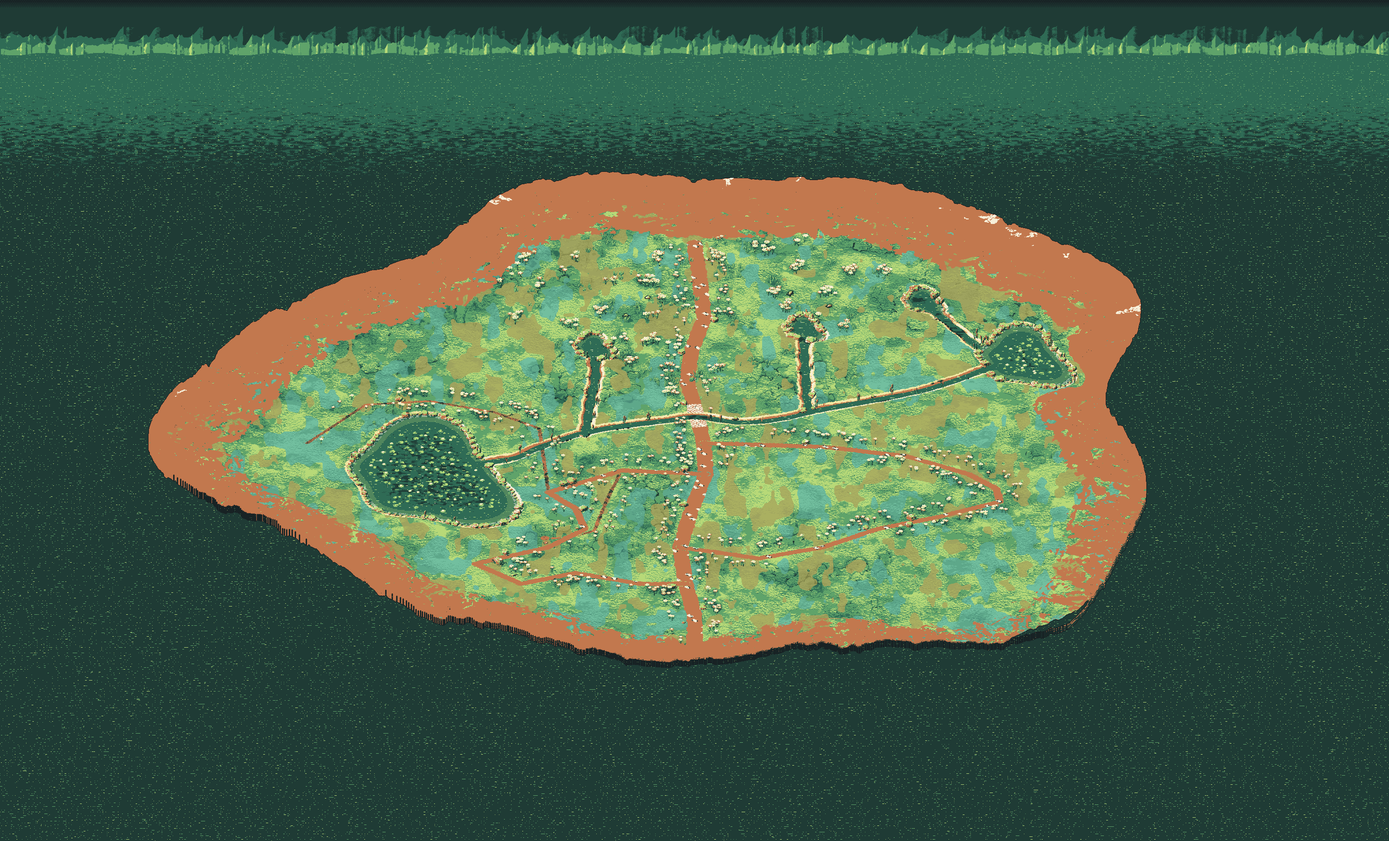
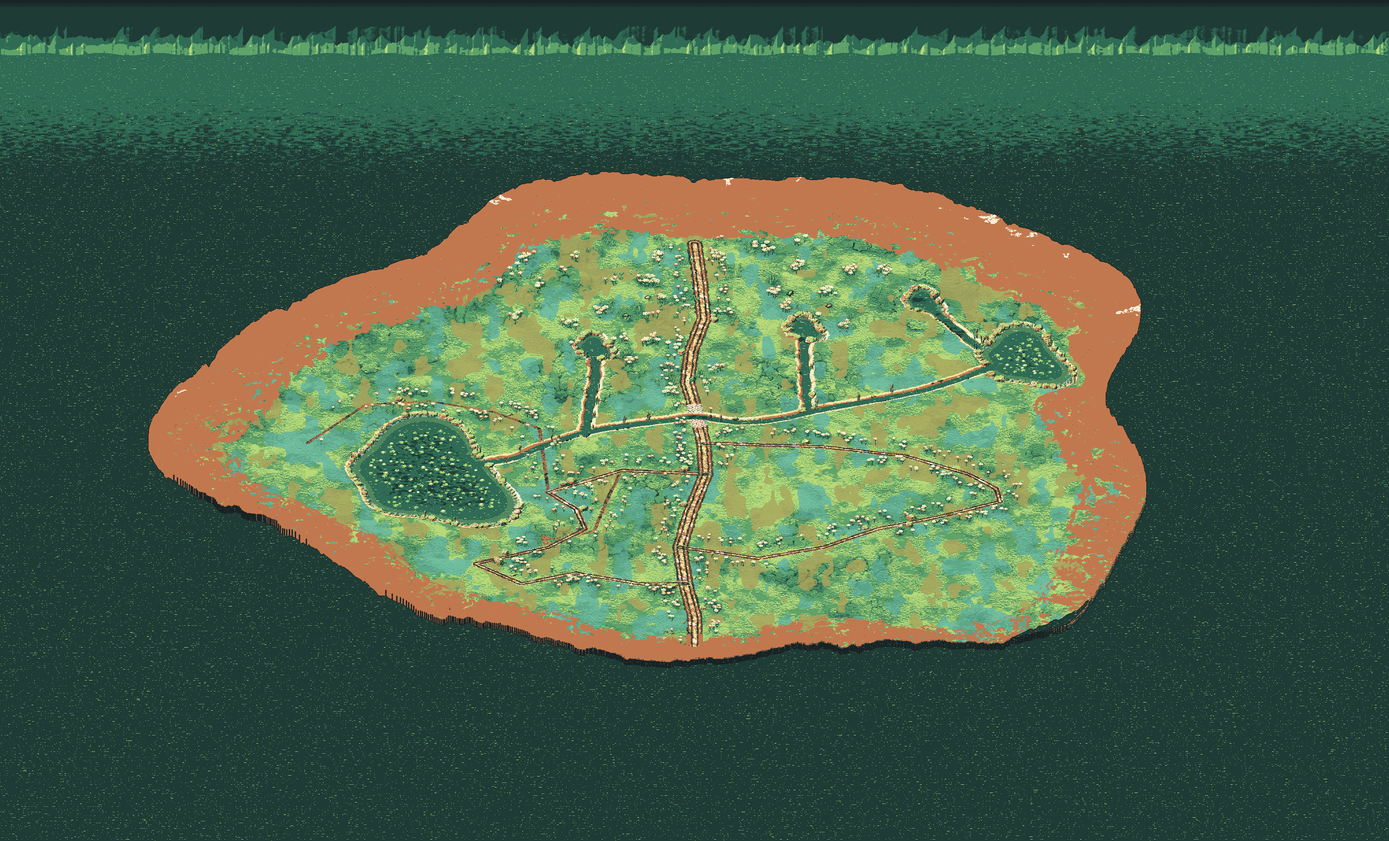
Larkmoor paths: stone slabs, grass spill and path tones (#602)
* Larkmoor paths: stone slabs, grass spill, mid-path stones, light tones

- Road slabs are larger (16 by 10 FU) with dirt joints.
- Grass spills softly over the road and lane edges (finger overlap, dithered).
- Small flat stones scattered in the trodden centre, none along roadsides.
- Trodden ground gets a pale worn centre and dusty mottles through its light,
  since the engine picks path colour from its ramp by light.
- Regenerated ground, ground_fg, ground_n and gardens. Tests: 12638 checks, 0 failed.

Claude-Session: https://claude.ai/code/session_01Pmx9dT3qdV6buBzqN7myn4

* Add changelog fragment for Larkmoor path pass 2

Claude-Session: https://claude.ai/code/session_01Pmx9dT3qdV6buBzqN7myn4

* Larkmoor path rims and ruts as code 71, baked dark on flat ground

- Path rims and wheel ruts use code 71 (darker earth ramp, RAMP32[71] in gen_meadow3d.py).
- On flat ground the engine keeps the bake colour, so the rims are also baked as palette 1 with a dithered edge.
- Pale worn patches and dusty mottles on the trodden centre are baked as palette 5.
- Tests: 12641 checks, 0 failed. Noon frame shows the dark rims along both road edges.

Claude-Session: https://claude.ai/code/session_01Pmx9dT3qdV6buBzqN7myn4

---------

diff --git a/tools/art/gen_larkmoor.py b/tools/art/gen_larkmoor.py
@@ -1075,6 +1075,7 @@ dp = samp(dpath, FU, FV)
 tone = fbm2(FU / 14, FV / 14, 2, 11); n1 = vn2(FU / 5, FV / 5, 3); n2 = vn2(FU / 2.2, FV / 2.2, 8)
 # materials: 0 grass 1 rock 2 sand 3 wet 4 path 5 frost
 T_GRASS, T_ROCK, T_SAND, T_WET, T_PATH, T_FROST, T_EARTH, T_WATER, T_FOAM, T_TRAIL = 100, 101, 102, 103, 104, 105, 106, 107, 108, 109
+T_RUT = 71     # dirt path rims (the outer part of a road) and ruts: a darker earth ramp, so a path is not one flat colour
 T_STONE = 70   # Larkmoor flagstones: their own grey-stone code, so the engine relight does not brown them with the dirt (gen_meadow3d.py RAMP32)
 mat = np.full(len(FU), T_GRASS, np.int16)
 rockness = smooth(.42, .85, slope + np.clip(h - 10, 0, 50) / 50 + (n1 - .5) * .25)
@@ -1105,8 +1106,8 @@ for _t, _f in FEATHER.items():
     mat[_band & ~_keep & (mat == FEATHER_MAT[_t])] = T_GRASS
 # grass tufts reach into the trodden edge: a ragged band of grass fingers overlaps the dirt, so the verge is not a clean line
 for _t in ('lane', 'trail'):
-    _fing = (dtr[_t] > HALF[_t] * .80) & (dtr[_t] < HALF[_t] * edge_noise * 1.05)
-    mat[_fing & (mat == FEATHER_MAT[_t]) & (vn2(FU / 1.1, FV / 1.1, 93 if _t == 'lane' else 94) > .58)] = T_GRASS
+    _fing = (dtr[_t] > HALF[_t] * .72) & (dtr[_t] < HALF[_t] * edge_noise * 1.10)
+    mat[_fing & (mat == FEATHER_MAT[_t]) & (vn2(FU / 1.3, FV / 1.3, 93 if _t == 'lane' else 94) > .52)] = T_GRASS
 # the plaza at the lighthouse foot: a small widened disc of the same worn earth, where the grove trail ends
 mat[(np.hypot(FU - LH_UV[0], FV - LH_UV[1]) < FOOT_R) & (rockness < .85) & ~(on_path['road'] | on_path['lane'])] = T_TRAIL
 dn = np.minimum.reduce([dtr[t] / HALF[t] for t in HALF]) * 10.5
@@ -1133,6 +1134,14 @@ for _t in ('road', 'lane'):
     _rut |= (np.abs(np.abs(dtr[_t]) - HALF[_t] * .38 + _wob) < 1.4) & on_path[_t]
 lt -= .24 * (_rut & (mat == T_PATH))
 lt += .07 * (on_trod & (vn2(FU / 9, FV / 9, 99) > .72))
+# path tone (Nathan, 2026-11-25): the engine re-picks trodden ground from the path's 4-step ramp by light, so the tone lives
+# in the light. Most path light sits in the bottom step (the rust), so a pale worn centre and dusty mottles are lifted past
+# the step to the pale one, in patches, not as a flat wash.
+_centre = np.zeros(len(FU), bool)
+for _t in ('road', 'lane'):
+    _centre |= on_path[_t] & (dtr[_t] < HALF[_t] * .5)
+lt += .50 * (_centre & (mat == T_PATH) & (vn2(FU / 5.0, FV / 4.0, 73) > .52))
+lt += .48 * (on_trod & (vn2(FU / 2.5, FV / 2.0, 75) > .80))
 # value structure (V3, picked by Nathan): three value bands per grass patch, a lighter trodden path, and a darker floor
 # under canopies. The bands follow smooth patch noise, not texel noise. The canopy floor uses the shadow height field:
 # ground that stands under props (trees, bushes, rocks) gets a soft dark falloff of about 4 texels around them.
@@ -1164,19 +1173,30 @@ lt -= .30 * mortar                                           # a soft drop to th
 # stones stand out as cream tiles in a brown dirt road, instead of a pale sand road with dirt joints.
 lt -= .62 * (mat == T_PATH)     # road and lanes alike drop to the dirt (earth) step; sand alone sits well above it
 lt += .62 * (road_m & fl_zone & ~mortar)   # the flagstones near the windmill and bridges lift back to the lit sand stones
+mat[(mat == T_PATH) & (_rut | (on_path['road'] & (dtr['road'] > HALF['road'] * 0.75)))] = T_RUT   # rims and ruts
 mat[road_m & fl_zone & ~mortar] = T_STONE   # the stones are grey stone; the joints stay dirt (T_PATH)
 # road slabs (Nathan's reference): sparse flat grey stones about 6 by 4 texels on the dirt road, one per 11-texel cell in
 # some cells. The slab is stone code 70 and its joint ring stays dirt code 104 (T_PATH), so the engine relights the stone
 # grey and the joints brown. Cell offsets and picks are integer hashes, so the layout is the same every bake.
-_cs = 22   # FU samples run at about half the bake's texel scale, so the slab is 12 by 8 FU (about 6 by 4 bake texels)
+_cs = 32   # FU samples run at about half the bake's texel scale; the slab is 16 by 10 FU (about 8 by 5 bake texels), readable at 1x
 _cu = np.floor(FU / _cs).astype(np.int64); _cv = np.floor(FV / _cs).astype(np.int64)
-_sx = _cu * _cs + ((_cu * 31337 + _cv * 7919) % 12)
-_sy = _cv * _cs + ((_cu * 104729 + _cv * 1299709) % 12)
+_sx = _cu * _cs + ((_cu * 31337 + _cv * 7919) % 16)
+_sy = _cv * _cs + ((_cu * 104729 + _cv * 1299709) % 22)
 _pick = ((_cu * 92821 + _cv * 68917 + 17) % 1009) / 1009.0 < .55
 _uu = np.floor(FU).astype(np.int64); _vv = np.floor(FV).astype(np.int64)
-_slab = _pick & (_uu >= _sx) & (_uu < _sx + 12) & (_vv >= _sy) & (_vv < _sy + 8)
-_joint = _slab & ((_uu == _sx) | (_uu == _sx + 11) | (_vv == _sy) | (_vv == _sy + 7))
+_slab = _pick & (_uu >= _sx) & (_uu < _sx + 16) & (_vv >= _sy) & (_vv < _sy + 10)
+_joint = _slab & ((_uu == _sx) | (_uu == _sx + 15) | (_vv == _sy) | (_vv == _sy + 9))
 mat[_slab & ~_joint & (mat == T_PATH)] = T_STONE
+# small rocks scattered in the middle of the path (Nathan's correction: no rocks along the roadsides): 2 by 2 stone texels in
+# sparse cells, only on the trodden centre of the road and lanes
+_rc = 9
+_ru = np.floor(FU / _rc).astype(np.int64); _rv = np.floor(FV / _rc).astype(np.int64)
+_rx = _ru * _rc + ((_ru * 4241 + _rv * 2309) % 7)
+_ry = _rv * _rc + ((_ru * 6007 + _rv * 3571) % 7)
+_rpick = ((_ru * 5399 + _rv * 2741 + 3) % 97) / 97.0 < .35
+_rock = _rpick & (_uu >= _rx) & (_uu < _rx + 2) & (_vv >= _ry) & (_vv < _ry + 2)
+_mid = ((dtr['lane'] < HALF['lane'] * .5) | (dtr['road'] < HALF['road'] * .5)) & (mat == T_PATH)
+mat[_rock & _mid] = T_STONE
 # water points
 isw = wd > .04
 mat = np.where(isw, T_WATER, mat)
@@ -1224,6 +1244,7 @@ RAMP = {T_GRASS: [1, 2, 3, 3, 4], T_ROCK: [6, 6, 6, 6, 6], T_SAND: [6, 6, 5, 7],
         M_PETA: [3, 5, 5, 7], M_PETB: [2, 6, 6, 5], M_STEM: [1, 2, 3, 3], M_LILY: [1, 2, 3, 4], M_REED: [1, 2, 3, 3], M_CAT: [1, 6, 6, 5], M_BERRY: [1, 6, 6, 5],
         M_CAP: [1, 6, 6, 5], M_CSTEM: [6, 5, 7, 7], M_PAPER: [5, 7, 7, 7], M_GRASS: [2, 3, 3, 4], M_BARKT: [6, 5, 7, 7], M_BARKT2: [1, 6, 5, 7], M_INK: [0, 0, 1, 1], M_PAPER + 20: [5, 7, 7, 7], M_DARKF: DARKF_RAMP}
 RAMP.update({M_BOARD: [1, 6, 6, 5], M_BOARDT: [6, 5, 5, 7], M_RAIL: [0, 1, 1, 6]})   # wooden bridges
+RAMP[T_RUT] = [1, 6, 6, 6]   # dirt rims and ruts: darker earth in the bake; the engine relight uses RAMP32[71] (gen_meadow3d.py)
 RAMP[T_STONE] = [1, 7, 7, 7]   # grey stone (bake colours are anchors; the engine relight uses the grey ramp in gen_meadow3d RAMP32)
 # canopy shading (round 2 of the v3 remodel): leaves and pine boughs step through their shades with crisp edges
 CANOPY_MATS = (M_FOL, M_PINE)
@@ -1344,6 +1365,21 @@ def render_scene(keep):
     _hh = ((XX * 92821 + YY * 68917) % 1009) / 1009.0
     out[_verge & (_hh > .988)] = 6
     out[_verge & (_hh < .006)] = 7
+    # path tones on flat ground: the engine keeps the bake colour where the light is flat, so the tone is baked as palette steps
+    # too. Dark rims and ruts (code 71) take palette 1 with a dithered edge, the trodden centre takes pale worn patches, and dusty
+    # mottles lighten the rest. Joints beside a flagstone keep the dirt colour.
+    from PIL import ImageFilter as _IFp
+    _R = img_mat == T_RUT
+    _P = img_mat == T_PATH
+    _stone_near = np.asarray(Image.fromarray(((img_mat == T_STONE) * 255).astype(np.uint8)).filter(_IFp.MaxFilter(3))) > 0
+    _free = ~_stone_near
+    out[_R & _free & (bay < .60)] = 1
+    if _P.any():
+        _core = np.asarray(Image.fromarray((_P * 255).astype(np.uint8)).filter(_IFp.MinFilter(5))) > 0
+        _worn = vn2(XX / 9.0, YY / 7.0, 73) + (bay - .5) * .30
+        out[_core & _free & (_worn > .46)] = 5
+        _dust = vn2(XX / 4.0, YY / 3.0, 75) + (bay - .5) * .20
+        out[_P & _free & ~_core & (_dust > .74)] = 5
     # stone interiors are solid (Nathan's reference, and Bayer on edges only): a stone texel whose whole 3x3 is stone takes the
     # solid light step, and its outer ring keeps the dithered edge from RAMP[T_STONE]. Joints are dirt (T_PATH), so they stay brown.
     from PIL import ImageFilter as _IFs

diff --git a/tools/art/gen_meadow3d.py b/tools/art/gen_meadow3d.py
@@ -1019,6 +1019,7 @@ RAMP.update({110: [1], 111: [2]})
 # the relight quantises through the 32-colour ramps (palette B, gen_palette_ramps.py); the bake above keeps the 8 anchors
 RAMP32 = {m: gpr.prop_ramp_steps(r) for m, r in RAMP.items()}
 RAMP32[70] = [6, 28, 28, 29]   # Larkmoor flagstones (gen_larkmoor T_STONE): grey stone, slate shade and paper steps 0 to 1
+RAMP32[71] = [24, 24, 25, 25]   # dirt path rims and ruts (gen_larkmoor T_RUT): the darker earth steps, so the centre stays the lighter 104 ramp
 depth_pass.write_ramp_include(os.path.join(HERE, '..', '..', 'render', 'shaders', 'prop_ramps.gdshaderinc'), RAMP32, PAL,
                               ramp_pal=gpr.role_steps_32(PROP_PAL))
 rgb_gnd, id_gnd = render_scene(~np.isin(allp['id'], tall_ids))

diff --git a/changelog.d/larkmoor-path-pass-2.patch.md b/changelog.d/larkmoor-path-pass-2.patch.md
@@ -1,0 +1,1 @@
+- Larkmoor paths: larger flagstones on the road, softer grass spill at path edges, small stones in the trodden centre, and a pale worn centre with dusty mottles on the trodden ground.
